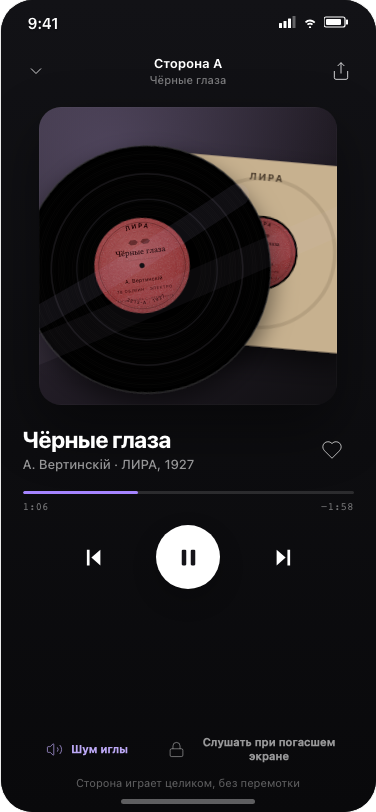
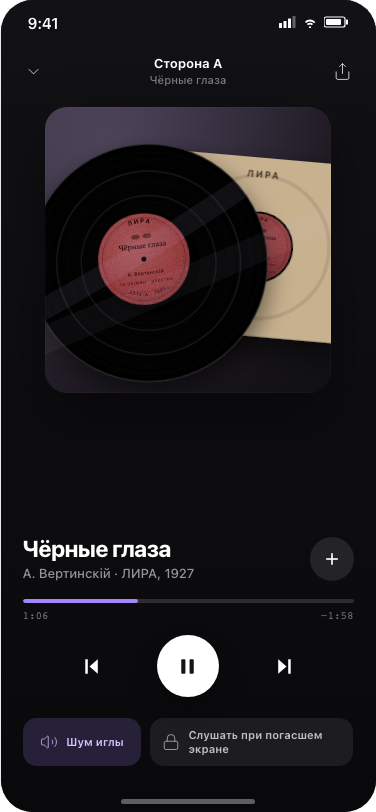
Recompose Shellac fullscreen player

diff --git a/platform/concepts/shellac/styles.css b/platform/concepts/shellac/styles.css
@@ -484,27 +484,28 @@
 .sm-player-head span,.sm-player-head strong { display:block; }
 .sm-player-head strong { color:#fff; font:650 13px/16px var(--face); }
 .sm-player-head span { margin-top:2px; color:rgba(255,255,255,.46); font:500 11px/14px var(--face); letter-spacing:0; }
-.sm-player-head .sm-icon-btn { background:transparent; }
-.sm-player-body { height:calc(100% - var(--safe-top) - 48px); padding:8px 22px 22px; box-sizing:border-box; display:flex; flex-direction:column; }
-.sm-player-art { width:298px; height:298px; margin:4px auto 0; flex:none; border-radius:22px; background-size:cover; background-position:center; box-shadow:0 24px 56px rgba(0,0,0,.42); }
-.sm-now-copy { margin-top:21px; display:flex; align-items:center; justify-content:space-between; gap:12px; }
+.sm-player-head .sm-icon-btn { width:40px; height:40px; background:transparent; }
+.sm-player-head .sm-icon-btn svg { width:19px; height:19px; }
+.sm-player-body { height:calc(100% - var(--safe-top) - 48px); padding:8px 22px calc(var(--safe-bottom) + 12px); box-sizing:border-box; display:flex; flex-direction:column; }
+.sm-player-art { width:286px; height:286px; margin:4px auto 0; flex:none; border-radius:22px; background-size:cover; background-position:center; box-shadow:0 24px 56px rgba(0,0,0,.42); }
+.sm-playback { margin-top:auto; padding-top:24px; }
+.sm-now-copy { display:flex; align-items:center; justify-content:space-between; gap:12px; }
 .sm-now-copy h1 { margin:0; color:#fff; font:740 23px/27px var(--face); letter-spacing:-.03em; }
 .sm-now-copy p { margin:3px 0 0; color:rgba(255,255,255,.57); font:500 13px/17px var(--face); }
-.sm-favorite { width:44px; height:44px; flex:none; border:0; border-radius:50%; display:grid; place-items:center; background:transparent; color:rgba(255,255,255,.76); }
-.sm-favorite svg { width:22px; height:22px; fill:none; stroke:currentColor; }
-.sm-progress { height:3px; margin-top:18px; overflow:hidden; border-radius:3px; background:rgba(255,255,255,.13); }
+.sm-favorite { width:44px; height:44px; flex:none; border:0; border-radius:50%; display:grid; place-items:center; background:rgba(255,255,255,.1); color:#fff; }
+.sm-favorite svg { width:20px; height:20px; fill:none; stroke:currentColor; stroke-width:2; }
+.sm-progress { height:4px; margin-top:17px; overflow:hidden; border-radius:4px; background:rgba(255,255,255,.14); }
 .sm-progress i { display:block; width:35%; height:100%; border-radius:inherit; background:var(--sm-accent); }
 .sm-time { margin-top:6px; display:flex; justify-content:space-between; color:rgba(255,255,255,.45); font:500 11px/13px var(--mono); }
-.sm-player-controls { height:78px; margin-top:5px; display:flex; align-items:center; justify-content:center; gap:42px; }
+.sm-player-controls { height:76px; margin-top:6px; display:flex; align-items:center; justify-content:space-around; padding:0 24px; }
 .sm-player-controls button { width:44px; height:44px; border:0; display:grid; place-items:center; background:none; color:#fff; }
-.sm-player-controls svg { width:27px; height:27px; fill:currentColor; }
-.sm-player-controls .sm-pause { width:64px; height:64px; border-radius:50%; background:#fff; color:#151419; box-shadow:0 10px 24px rgba(0,0,0,.22); }
-.sm-player-options { margin-top:auto; padding-top:10px; display:grid; grid-template-columns:1fr 1.5fr; gap:8px; }
-.sm-player-options button { min-height:44px; padding:0 8px; border:0; display:flex; align-items:center; justify-content:center; gap:8px; text-align:center; color:rgba(255,255,255,.58); background:transparent; }
-.sm-player-options button.is-on { color:#bca8f5; background:transparent; }
-.sm-player-options svg { width:17px; height:17px; flex:none; fill:none; stroke:currentColor; }
-.sm-player-options span { font:570 11px/14px var(--face); }
-.sm-player-note { margin:5px 0 0; color:rgba(255,255,255,.34); text-align:center; font:450 11px/14px var(--face); }
+.sm-player-controls svg { width:25px; height:25px; fill:currentColor; }
+.sm-player-controls .sm-pause { width:62px; height:62px; border-radius:50%; background:#fff; color:#151419; box-shadow:0 10px 24px rgba(0,0,0,.22); }
+.sm-player-options { margin-top:14px; display:grid; grid-template-columns:.85fr 1.45fr; gap:9px; }
+.sm-player-options button { min-height:48px; padding:0 12px; border:0; border-radius:14px; display:flex; align-items:center; justify-content:center; gap:8px; text-align:left; color:rgba(255,255,255,.72); background:rgba(255,255,255,.08); }
+.sm-player-options button.is-on { color:#d1c3ff; background:rgba(169,140,255,.18); }
+.sm-player-options svg { width:18px; height:18px; flex:none; fill:none; stroke:currentColor; }
+.sm-player-options span { font:620 11px/14px var(--face); }
 
 .sm-library-shortcuts { display:grid; grid-template-columns:1fr 1fr; gap:10px; }
 .sm-library-shortcuts article { min-height:112px; padding:14px; box-sizing:border-box; border-radius:18px; background:linear-gradient(145deg,#202025,#17171a); box-shadow:inset 0 0 0 1px var(--sm-line); }

diff --git a/platform/concepts/shellac/screens/player.html b/platform/concepts/shellac/screens/player.html
@@ -8,24 +8,25 @@
   <div class="sm-player-body">
     <div class="sm-player-art art-player" role="img" aria-label="Конверт и пластинка «Чёрные глаза»"></div>
 
-    <div class="sm-now-copy">
-      <div><h1>Чёрные глаза</h1><p>А. Вертинскій · ЛИРА, 1927</p></div>
-      <button class="sm-favorite tap" data-toast="Добавлено в «Мою музыку»" aria-label="Добавить в мою музыку"><svg><use href="#i-heart"/></svg></button>
-    </div>
+    <div class="sm-playback">
+      <div class="sm-now-copy">
+        <div><h1>Чёрные глаза</h1><p>А. Вертинскій · ЛИРА, 1927</p></div>
+        <button class="sm-favorite tap" data-toast="Добавлено в «Мою музыку»" aria-label="Добавить в мою музыку"><svg><use href="#i-plus"/></svg></button>
+      </div>
 
-    <div class="sm-progress"><i></i></div>
-    <div class="sm-time"><span>1:06</span><span>−1:58</span></div>
-    <div class="sm-player-controls">
-      <button class="tap" aria-label="Предыдущая сторона"><svg viewBox="0 0 24 24"><path d="M7 5h2.4v14H7zM19 5l-8 7 8 7z"/></svg></button>
-      <button class="sm-pause tap" aria-label="Пауза"><svg viewBox="0 0 24 24"><rect x="6" y="5" width="4" height="14" rx="1"/><rect x="14" y="5" width="4" height="14" rx="1"/></svg></button>
-      <button class="tap" aria-label="Следующая сторона"><svg viewBox="0 0 24 24"><path d="M14.6 5H17v14h-2.4zM5 5l8 7-8 7z"/></svg></button>
+      <div class="sm-progress"><i></i></div>
+      <div class="sm-time"><span>1:06</span><span>−1:58</span></div>
+      <div class="sm-player-controls">
+        <button class="tap" aria-label="Предыдущая сторона"><svg viewBox="0 0 24 24"><path d="M7 5h2.4v14H7zM19 5l-8 7 8 7z"/></svg></button>
+        <button class="sm-pause tap" aria-label="Пауза"><svg viewBox="0 0 24 24"><rect x="6" y="5" width="4" height="14" rx="1"/><rect x="14" y="5" width="4" height="14" rx="1"/></svg></button>
+        <button class="tap" aria-label="Следующая сторона"><svg viewBox="0 0 24 24"><path d="M14.6 5H17v14h-2.4zM5 5l8 7-8 7z"/></svg></button>
+      </div>
     </div>
 
     <div class="sm-player-options">
       <button class="tap is-on" data-toast="Шум иглы включён — играет нереставрированная дорожка"><svg><use href="#i-volume-2"/></svg><span>Шум иглы</span></button>
       <button class="tap" data-activate="audio|background"><svg><use href="#i-lock"/></svg><span>Слушать при погасшем экране</span></button>
     </div>
-    <p class="sm-player-note">Сторона играет целиком, без перемотки</p>
   </div>
   <div class="home-ind"></div>
 </div>
